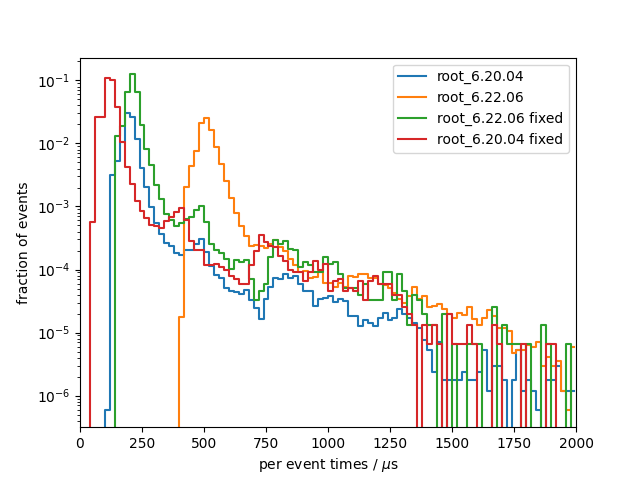
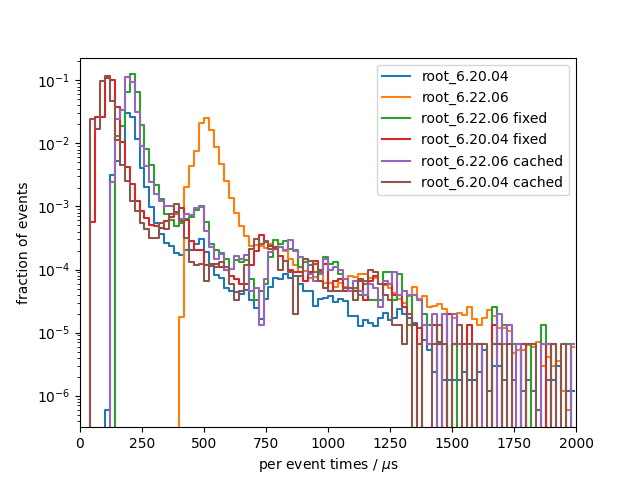
Update with cached branch versions

diff --git a/results/k4SimDelphes/compare_root_versions/README.md b/results/k4SimDelphes/compare_root_versions/README.md
@@ -95,6 +95,50 @@ Results from 3 benchmark runs with 17143 events each
 | 90 percentile [us]       |    116.2 |    126.8 |    144.7 |
 | 99 percentile [us]       |     2088 |     2108 |     2133 |
 
+### root_6.22.06 cached
+Results from 3 benchmark runs with 17143 events each
+
+#### I/O times
+|                          |   min    |   mean   |   max    |
+|--------------------------|----------|----------|----------|
+| total [s]                |    5.027 |    5.147 |    5.302 |
+#### Setup times
+|                          |   min    |   mean   |   max    |
+|--------------------------|----------|----------|----------|
+| total setup [ms]         |    444.0 |    456.9 |    465.8 |
+| constructor [ms]         |    25.47 |    27.56 |    31.60 |
+| finish [ms]              |    418.4 |    429.3 |    440.4 |
+#### Per event times
+|                          |   min    |   mean   |   max    |
+|--------------------------|----------|----------|----------|
+| median [us]              |    154.7 |    157.5 |    163.0 |
+| min [us]                 |    129.3 |    132.8 |    136.6 |
+| max [us]                 | 6.46e+05 | 6.55e+05 | 6.67e+05 |
+| 90 percentile [us]       |    189.5 |    195.0 |    205.2 |
+| 99 percentile [us]       |     2132 |     2170 |     2242 |
+
+### root_6.20.04 cached
+Results from 3 benchmark runs with 17143 events each
+
+#### I/O times
+|                          |   min    |   mean   |   max    |
+|--------------------------|----------|----------|----------|
+| total [s]                |    3.523 |    3.572 |    3.632 |
+#### Setup times
+|                          |   min    |   mean   |   max    |
+|--------------------------|----------|----------|----------|
+| total setup [ms]         |    557.3 |    561.8 |    566.2 |
+| constructor [ms]         |    29.89 |    30.11 |    30.31 |
+| finish [ms]              |    527.4 |    531.7 |    535.9 |
+#### Per event times
+|                          |   min    |   mean   |   max    |
+|--------------------------|----------|----------|----------|
+| median [us]              |    62.57 |    64.50 |    66.20 |
+| min [us]                 |    43.18 |    44.07 |    45.60 |
+| max [us]                 | 6.46e+05 | 6.58e+05 | 6.72e+05 |
+| 90 percentile [us]       |    91.62 |    95.07 |    99.59 |
+| 99 percentile [us]       |     2051 |     2060 |     2072 |
+
 ### per-event comparison plot
 
 ![per event distribution for write](per_event_write.png)
@@ -112,10 +156,10 @@ Results from 10 benchmark runs with 17143 events each
 |                          |   min    |   mean   |   max    |
 |--------------------------|----------|----------|----------|
 | total setup [ms]         |    414.2 |    423.5 |    451.7 |
-| open file [ms]           |    406.5 |    415.1 |    444.0 |
 | close file [us]          |     7316 |     8415 | 1.12e+04 |
 | constructor [us]         |    0.254 |    0.482 |    1.042 |
 | read collection ids [us] |    0.376 |    0.394 |    0.427 |
+| open file [ms]           |    406.5 |    415.1 |    444.0 |
 #### Per event times
 |                          |   min    |   mean   |   max    |
 |--------------------------|----------|----------|----------|
@@ -136,10 +180,10 @@ Results from 10 benchmark runs with 17143 events each
 |                          |   min    |   mean   |   max    |
 |--------------------------|----------|----------|----------|
 | total setup [ms]         |    420.1 |    456.5 |    492.7 |
-| open file [ms]           |    414.5 |    447.8 |    479.1 |
 | close file [us]          |     5565 |     8651 | 1.45e+04 |
 | constructor [us]         |    0.310 |    0.381 |    0.700 |
 | read collection ids [us] |    0.371 |    0.551 |    1.473 |
+| open file [ms]           |    414.5 |    447.8 |    479.1 |
 #### Per event times
 |                          |   min    |   mean   |   max    |
 |--------------------------|----------|----------|----------|
@@ -160,10 +204,10 @@ Results from 3 benchmark runs with 17143 events each
 |                          |   min    |   mean   |   max    |
 |--------------------------|----------|----------|----------|
 | total setup [ms]         |    425.9 |    430.1 |    434.3 |
-| open file [ms]           |    415.9 |    419.8 |    423.7 |
 | close file [us]          |     9933 | 1.03e+04 | 1.06e+04 |
 | constructor [us]         | 3.80e-02 | 4.40e-02 | 4.80e-02 |
 | read collection ids [us] |    0.151 |    0.171 |    0.185 |
+| open file [ms]           |    415.9 |    419.8 |    423.7 |
 #### Per event times
 |                          |   min    |   mean   |   max    |
 |--------------------------|----------|----------|----------|
@@ -184,10 +228,10 @@ Results from 3 benchmark runs with 17143 events each
 |                          |   min    |   mean   |   max    |
 |--------------------------|----------|----------|----------|
 | total setup [ms]         |    405.8 |    414.6 |    421.7 |
-| open file [ms]           |    396.9 |    406.1 |    413.3 |
 | close file [us]          |     8385 |     8573 |     8815 |
 | constructor [us]         | 4.10e-02 | 4.73e-02 | 5.40e-02 |
 | read collection ids [us] |    0.151 |    0.158 |    0.167 |
+| open file [ms]           |    396.9 |    406.1 |    413.3 |
 #### Per event times
 |                          |   min    |   mean   |   max    |
 |--------------------------|----------|----------|----------|
@@ -196,6 +240,54 @@ Results from 3 benchmark runs with 17143 events each
 | max [us]                 | 2.80e+05 | 2.84e+05 | 2.86e+05 |
 | 90 percentile [us]       |    152.3 |    156.4 |    158.6 |
 | 99 percentile [us]       |    704.0 |    716.1 |    725.3 |
+
+### root_6.22.06 cached
+Results from 3 benchmark runs with 17143 events each
+
+#### I/O times
+|                          |   min    |   mean   |   max    |
+|--------------------------|----------|----------|----------|
+| total [s]                |    4.537 |    4.624 |    4.751 |
+#### Setup times
+|                          |   min    |   mean   |   max    |
+|--------------------------|----------|----------|----------|
+| total setup [ms]         |    449.6 |    461.8 |    484.1 |
+| close file [us]          |     8572 |     8833 |     9288 |
+| constructor [us]         | 5.00e-02 |    0.146 |    0.325 |
+| read collection ids [us] |    0.184 |    0.200 |    0.228 |
+| open file [ms]           |    441.1 |    452.9 |    474.8 |
+#### Per event times
+|                          |   min    |   mean   |   max    |
+|--------------------------|----------|----------|----------|
+| median [us]              |    194.2 |    198.5 |    204.9 |
+| min [us]                 |    131.3 |    133.2 |    136.0 |
+| max [us]                 | 2.94e+05 | 3.00e+05 | 3.07e+05 |
+| 90 percentile [us]       |    230.3 |    235.6 |    244.1 |
+| 99 percentile [us]       |    766.0 |    779.5 |    802.3 |
+
+### root_6.20.04 cached
+Results from 3 benchmark runs with 17143 events each
+
+#### I/O times
+|                          |   min    |   mean   |   max    |
+|--------------------------|----------|----------|----------|
+| total [s]                |    2.859 |    2.906 |    2.987 |
+#### Setup times
+|                          |   min    |   mean   |   max    |
+|--------------------------|----------|----------|----------|
+| total setup [ms]         |    422.8 |    425.3 |    428.4 |
+| close file [us]          |     7533 |     8013 |     8564 |
+| constructor [us]         | 4.70e-02 | 4.73e-02 | 4.80e-02 |
+| read collection ids [us] |    0.152 |    0.167 |    0.179 |
+| open file [ms]           |    414.8 |    417.3 |    420.8 |
+#### Per event times
+|                          |   min    |   mean   |   max    |
+|--------------------------|----------|----------|----------|
+| median [us]              |    102.1 |    104.3 |    107.3 |
+| min [us]                 |    41.42 |    42.32 |    43.80 |
+| max [us]                 | 2.83e+05 | 2.90e+05 | 3.02e+05 |
+| 90 percentile [us]       |    134.3 |    137.4 |    141.7 |
+| 99 percentile [us]       |    673.4 |    688.9 |    707.6 |
 
 ### per-event comparison plot
 
